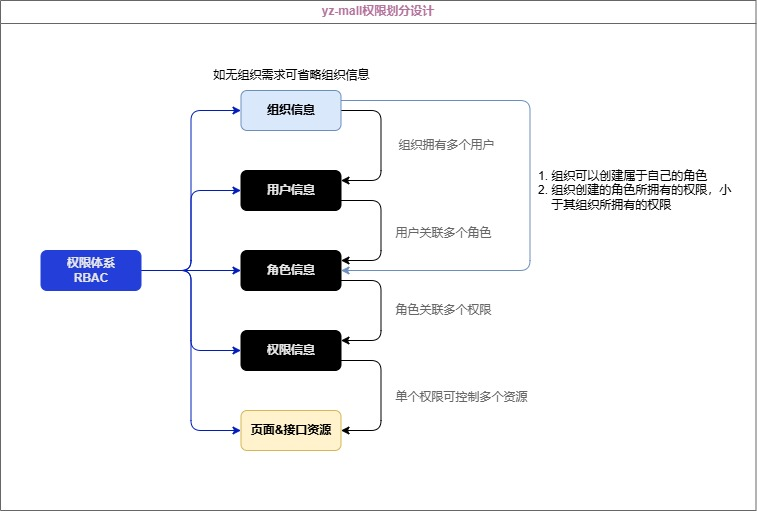
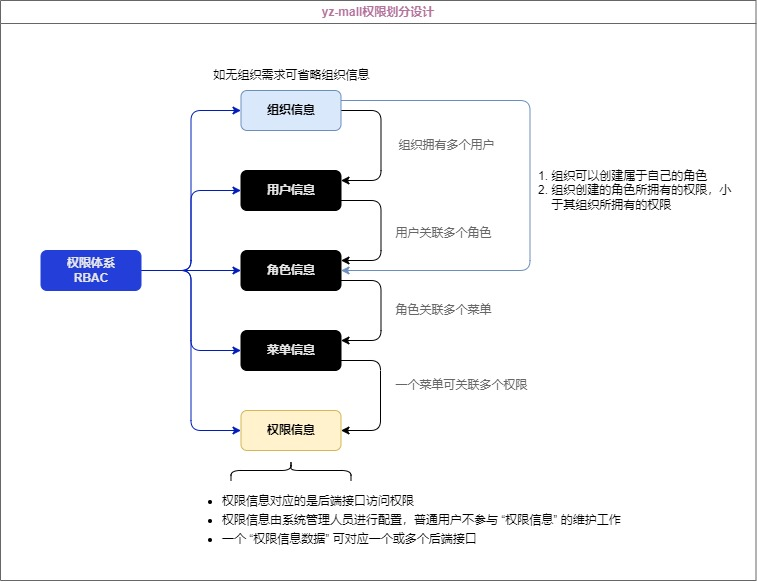
perf: 权限体系代码微调

diff --git a/yz-mall-sys/yz-mall-sys-service/src/main/java/com/yz/mall/sys/service/impl/SysMenuServiceImpl.java b/yz-mall-sys/yz-mall-sys-service/src/main/java/com/yz/mall/sys/service/impl/SysMenuServiceImpl.java
@@ -63,7 +63,7 @@ public class SysMenuServiceImpl extends ServiceImpl<SysMenuMapper, SysMenu> impl
     }
 
     @Override
-    public List<SysTreeMenuVo> menusInfoProcessor(List<SysMenu> menus, Long parentId) {
+    public List<SysTreeMenuVo> menusInfoProcessor(List<SysMenu> menus, Long parentId, List<Long> roleIds) {
         List<SysMenu> localMenus = menus.stream().filter(menu -> menu.getParentId().equals(parentId)).collect(Collectors.toList());
 
         if (CollectionUtils.isEmpty(localMenus)) {
@@ -89,9 +89,12 @@ public class SysMenuServiceImpl extends ServiceImpl<SysMenuMapper, SysMenu> impl
             // metaVo.setShowLink(EnableEnum.ENABLE.get().equals(menu.getShowLink()));
             // metaVo.setActivePath(menu.getActivePath());
 
+            if (!CollectionUtils.isEmpty(roleIds)) {
+                metaVo.setRoles(roleIds.stream().map(roleId -> roleId + "").collect(Collectors.toList()));
+            }
+
             if (0L != parentId) {
                 vo.setName(menu.getName());
-                metaVo.setRoles(Collections.singletonList("1858098107289014272"));
             } else {
                 metaVo.setRank(menu.getSort());
             }
@@ -104,7 +107,7 @@ public class SysMenuServiceImpl extends ServiceImpl<SysMenuMapper, SysMenu> impl
                 vo.setName(menu.getName());
             }
 
-            vo.setChildren(this.menusInfoProcessor(menus, menu.getId()));
+            vo.setChildren(this.menusInfoProcessor(menus, menu.getId(), roleIds));
 
             vo.setMeta(metaVo);
             treeMenuVos.add(vo);

diff --git a/yz-mall-sys/yz-mall-sys-service/src/main/java/com/yz/mall/sys/service/SysMenuService.java b/yz-mall-sys/yz-mall-sys-service/src/main/java/com/yz/mall/sys/service/SysMenuService.java
@@ -58,9 +58,10 @@ public interface SysMenuService extends IService<SysMenu> {
      * 将菜单列表信息加工处理为树形结构
      *
      * @param menus    菜单列表信息
-     * @param parentId 父级菜单Id
+     * @param parentId 父级菜单Id (默认传0L，标识从第一级菜单开始往下处理)
+     * @param roleIds  用户所拥有的角色
      * @return 树形结构菜单信息
      */
-    List<SysTreeMenuVo> menusInfoProcessor(List<SysMenu> menus, Long parentId);
+    List<SysTreeMenuVo> menusInfoProcessor(List<SysMenu> menus, Long parentId, List<Long> roleIds);
 }
 

diff --git a/yz-mall-sys/yz-mall-sys-service/src/main/java/com/yz/mall/sys/validators/SysMenuAddValidator.java b/yz-mall-sys/yz-mall-sys-service/src/main/java/com/yz/mall/sys/validators/SysMenuAddValidator.java
@@ -34,7 +34,7 @@ public class SysMenuAddValidator implements ConstraintValidator<ValidSysMenuAdd,
             boolean nameValid = addNameValid(dto, context);
             boolean pathValid = addPathValid(dto, context);
             return nameValid && pathValid;
-        } else if (menuType == MenuTypeEnum.BUTTON) {
+        } else if (menuType == MenuTypeEnum.BUTTON || menuType == MenuTypeEnum.API) {
             return addAuthsValid(dto, context);
         }
 

diff --git a/yz-mall-sys/yz-mall-sys-service/src/main/java/com/yz/mall/sys/service/impl/SysUserServiceImpl.java b/yz-mall-sys/yz-mall-sys-service/src/main/java/com/yz/mall/sys/service/impl/SysUserServiceImpl.java
@@ -168,7 +168,7 @@ public class SysUserServiceImpl extends ServiceImpl<BaseUserMapper, SysUser> imp
         menuQueryDto.setMenuIds(menuIds);
         List<SysMenu> menus = sysMenuService.list(menuQueryDto);
         // 解析菜单信息
-        return sysMenuService.menusInfoProcessor(menus, 0L);
+        return sysMenuService.menusInfoProcessor(menus, 0L, roleIds);
     }
 }
 

diff --git a/yz-mall-sys/yz-mall-sys-interface/src/main/java/com/yz/mall/sys/enums/MenuTypeEnum.java b/yz-mall-sys/yz-mall-sys-interface/src/main/java/com/yz/mall/sys/enums/MenuTypeEnum.java
@@ -24,9 +24,9 @@ public enum MenuTypeEnum {
      */
     BUTTON(3),
     /**
-     * 4-接口
+     * 4-接口资源
      */
-    // API(4)
+    API(4)
     ;
 
 
